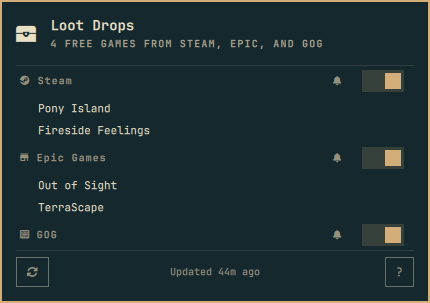
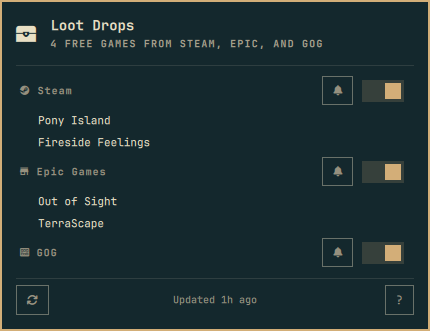
Refresh the theme screenshots for the new controls, swap in Catppuccin Latte (#7)
Hero and grid show the new bordered bell buttons, tooltips and rule spacing. Solitude replaced by Catppuccin Latte.

diff --git a/README.md b/README.md
@@ -31,7 +31,7 @@ them:
 </tr>
 <tr>
 <td align="center"><img alt="Loot Drops panel in the Outpost theme" src="docs/themes/outpost.png" width="320"><br><sub>Outpost</sub></td>
-<td align="center"><img alt="Loot Drops panel in the Solitude theme" src="docs/themes/solitude.png" width="320"><br><sub>Solitude</sub></td>
+<td align="center"><img alt="Loot Drops panel in the Catppuccin Latte theme" src="docs/themes/catppuccin-latte.png" width="320"><br><sub>Catppuccin Latte</sub></td>
 </tr>
 </table>
 
